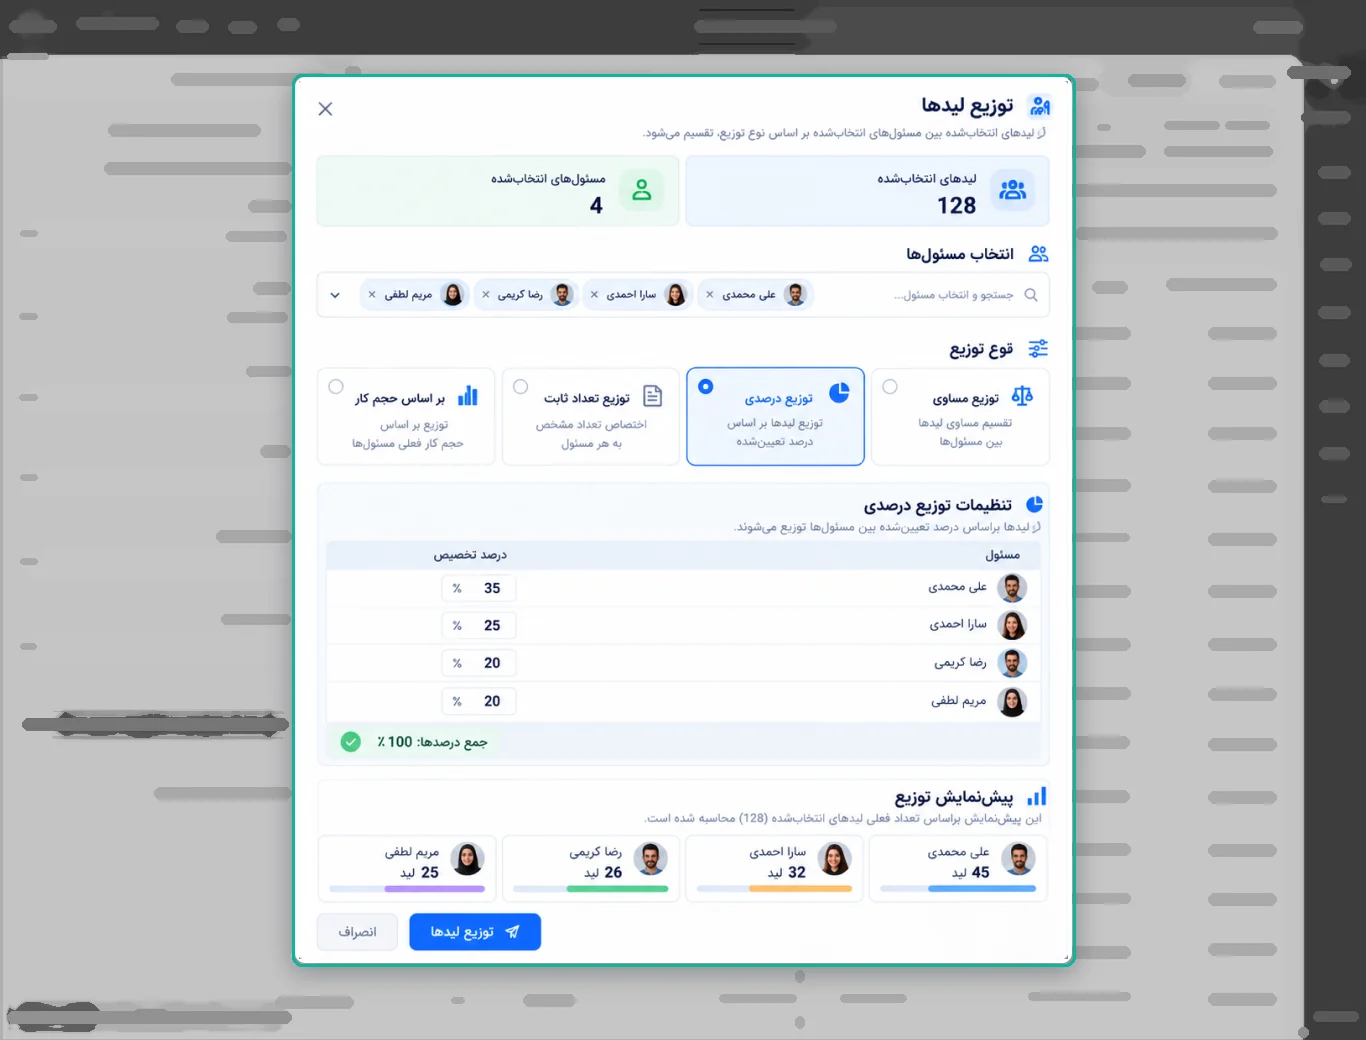
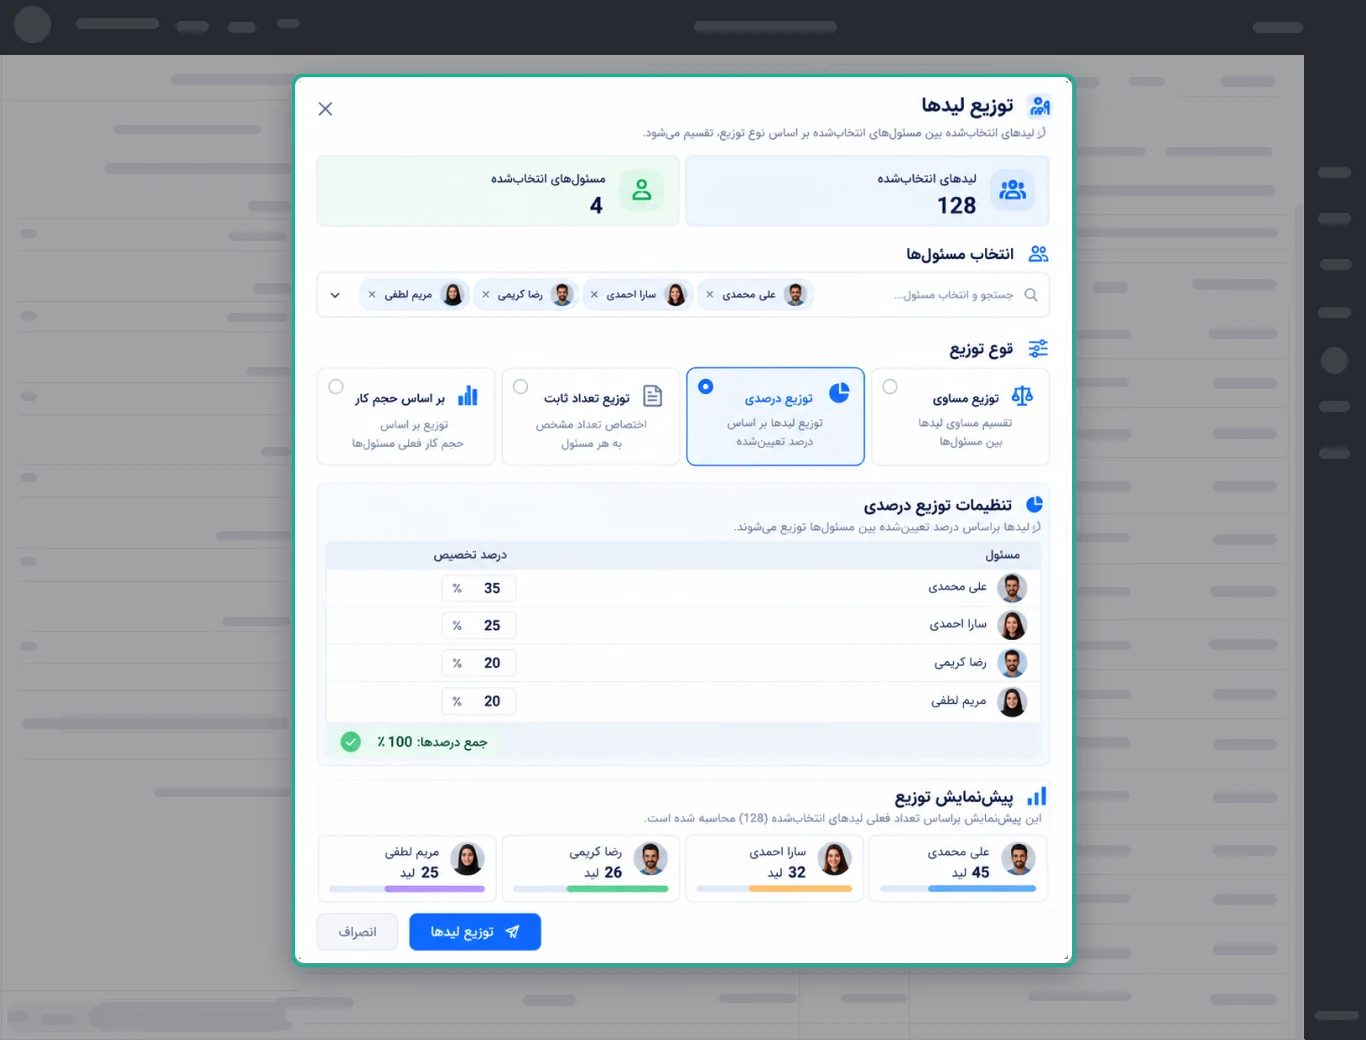
Docs: cleaner skeleton backgrounds in extension screenshots
The skeleton is now drawn from detected geometry instead of a blurred
copy of the screenshot: flat surfaces, crisp 1px card borders, even
placeholder bars, round avatars, and Didar's dark top bar and side nav
as solid strips. Removes the smudges, half-blurred icons and stray
dark bars. Modal screens get a dimmed background (--dim) so the modal
stands out as it does in Didar.

Claude-Session: https://claude.ai/code/session_019W7KBeZ5CK3ix5cB4E1d7m

diff --git a/scripts/extension-skeleton.py b/scripts/extension-skeleton.py
@@ -1,6 +1,11 @@
-"""Turn a Didar screenshot into a skeleton screen, keeping only the extension area as-is.
+"""Turn a Didar screenshot into a clean skeleton screen, keeping only the extension area as-is.
 
-Usage: python3 -I skeleton.py SRC OUT "x0,y0,x1,y1[;x0,y0,x1,y1]" [crop x0,y0,x1,y1]
+Everything outside the kept area is redrawn from geometry detected in the screenshot:
+flat background regions, card outlines, uniform text bars and round avatars. Nothing from
+the original pixels is reused there, so the result has no smudges or half-blurred icons.
+
+Usage: python3 -I scripts/extension-skeleton.py SRC OUT "x0,y0,x1,y1[;...]" [--crop x0,y0,x1,y1] [--dim]
+  --dim  darken everything outside the kept area (for screens where the extension is a modal)
 """
 import sys
 import numpy as np
@@ -9,81 +14,157 @@ from scipy import ndimage as ndi
 
 ACCENT = (19, 179, 155)
 
+# skeleton palette
+PAGE = (247, 248, 250)
+CARD_LINE = (226, 229, 234)
+BAR_LIGHT = (225, 228, 233)     # text bars on light surfaces
+BAR_DARK = (88, 92, 100)        # text bars on dark surfaces (top bar, side nav)
+DARK = (52, 55, 61)
+
+
+def region_color(lum):
+    """Map a detected flat region's luminance to a calm skeleton tone."""
+    if lum < 100:
+        return DARK
+    if lum > 236:
+        return (255, 255, 255)
+    v = int(232 + (lum - 100) / (236 - 100) * 18)  # 232..250
+    return (v - 3, v - 2, v)
+
 
 def skeleton(img: Image.Image) -> Image.Image:
     rgb = np.asarray(img.convert("RGB")).astype(np.float32)
     gray = rgb @ np.array([0.299, 0.587, 0.114], dtype=np.float32)
+    H, W = gray.shape
 
-    # flat background: what the screen looks like without text and icons
     bg = ndi.median_filter(gray, size=25)
     ink0 = np.abs(gray - bg) > 26
 
-    # long thin lines are card borders / dividers, not content
-    hlines = ndi.binary_opening(ink0, structure=np.ones((1, 70)))
-    vlines = ndi.binary_opening(ink0, structure=np.ones((70, 1)))
-    lines = hlines | vlines
-    ink = ink0 & ~ndi.binary_dilation(lines, iterations=1)
-
-    # merge glyphs into words/lines, then into skeleton bars
-    ink = ndi.binary_dilation(ink, structure=np.ones((3, 9)), iterations=1)
-    ink = ndi.binary_closing(ink, structure=np.ones((3, 15)))
-    labels, n = ndi.label(ink)
-    boxes = ndi.find_objects(labels)
-
-    # desaturated, slightly lightened layout as the base
-    base = np.clip(bg * 0.55 + 255 * 0.45, 0, 255)
-    dark = bg < 90  # e.g. Didar's dark top bar and side nav
-    base[dark] = bg[dark] * 0.7 + 40
-    # faint card borders keep the screen's structure readable
-    border = np.clip(base - 22, 0, 255)
-    base = np.where(lines, border, base)
-    out = Image.fromarray(np.stack([base] * 3, -1).astype(np.uint8))
+    out = Image.new("RGB", (W, H), PAGE)
     d = ImageDraw.Draw(out)
 
-    for sl in boxes:
+    # Didar chrome: the dark top bar and the dark side nav on the right, detected as edge strips
+    top_h = 0
+    while top_h < H // 4 and np.median(bg[top_h]) < 100:
+        top_h += 1
+    nav_x = W
+    while nav_x > W * 3 // 4 and np.median(bg[top_h:, nav_x - 1]) < 100:
+        nav_x -= 1
+    chrome_top = top_h if top_h > 20 else 0
+    chrome_right = nav_x if W - nav_x > 20 else W
+
+    # 1) flat regions (top bar, side nav, panels, colored bars, dimmed overlay), largest first
+    q = np.round(bg / 14) * 14
+    regions = []
+    for level in np.unique(q):
+        mask = ndi.binary_opening(q == level, structure=np.ones((5, 5)))
+        lab, n = ndi.label(mask)
+        if not n:
+            continue
+        areas = ndi.sum(mask, lab, range(1, n + 1))
+        for i, sl in enumerate(ndi.find_objects(lab)):
+            if sl is None or areas[i] < 1200:
+                continue
+            y0, y1, x0, x1 = sl[0].start, sl[0].stop, sl[1].start, sl[1].stop
+            fill_ratio = areas[i] / ((y1 - y0) * (x1 - x0))
+            if fill_ratio < 0.55:  # not rectangular enough to be a surface
+                continue
+            lum = float(level)
+            if lum < 100:
+                if y0 < chrome_top + 30 or x1 > chrome_right - 30:
+                    continue  # badges and controls that belong to the chrome
+                lum = 170.0  # dark/saturated elements (buttons, badges) → neutral block; chrome is drawn below
+            regions.append((areas[i], (x0, y0, x1, y1), lum))
+    regions.sort(key=lambda r: -r[0])
+    surface = np.full((H, W), 245.0, dtype=np.float32)
+    for _a, (x0, y0, x1, y1), lum in regions:
+        dark = lum < 100
+        radius = 0 if dark or (x1 - x0) > W * 0.8 else 10
+        d.rounded_rectangle([x0, y0, x1 - 1, y1 - 1], radius=radius, fill=region_color(lum))
+        surface[y0:y1, x0:x1] = lum
+    if chrome_top:
+        d.rectangle([0, 0, W - 1, chrome_top - 1], fill=DARK)
+        surface[:chrome_top] = 40
+    if chrome_right < W:
+        d.rectangle([chrome_right, 0, W - 1, H - 1], fill=DARK)
+        surface[:, chrome_right:] = 40
+
+    # 2) card outlines and dividers: redraw each detected border segment as a crisp 1px line
+    faint = np.abs(gray - bg) > 7  # card borders in Didar are very light
+    hl = ndi.binary_opening(faint, structure=np.ones((1, 70)))
+    vl = ndi.binary_opening(faint, structure=np.ones((70, 1)))
+    lines = hl | vl
+    for mask, horizontal in ((hl, True), (vl, False)):
+        lab, _n = ndi.label(mask)
+        for sl in ndi.find_objects(lab):
+            if sl is None:
+                continue
+            y0, y1, x0, x1 = sl[0].start, sl[0].stop, sl[1].start, sl[1].stop
+            if (y1 - y0) > 4 and (x1 - x0) > 4:
+                continue  # a filled block, not a line
+            if float(np.median(surface[y0:y1, x0:x1])) < 100:
+                continue  # no outlines on the dark top bar / side nav
+            color = CARD_LINE
+            if horizontal:
+                cy = (y0 + y1) // 2
+                d.line([x0, cy, x1 - 1, cy], fill=color, width=1)
+            else:
+                cx = (x0 + x1) // 2
+                d.line([cx, y0, cx, y1 - 1], fill=color, width=1)
+
+    # 3) text and icons → uniform bars, avatars → circles
+    ink = ink0 & ~ndi.binary_dilation(lines, iterations=2)
+    ink = ndi.binary_opening(ink, structure=np.ones((2, 2)))  # drop specks
+    ink = ndi.binary_dilation(ink, structure=np.ones((3, 9)))
+    ink = ndi.binary_closing(ink, structure=np.ones((3, 15)))
+    lab, _n = ndi.label(ink)
+    for sl in ndi.find_objects(lab):
         if sl is None:
             continue
-        y0, y1 = sl[0].start, sl[0].stop
-        x0, x1 = sl[1].start, sl[1].stop
-        h, w = y1 - y0, x1 - x0
-        if w < 6 or h < 5:
+        y0, y1, x0, x1 = sl[0].start, sl[0].stop, sl[1].start, sl[1].stop
+        w, h = x1 - x0, y1 - y0
+        if w < 10 or h < 7 or h > 90 or (h > 46 and w > 160):
             continue
-        if h > 90 or (h > 46 and w > 160):
-            continue  # not a text/icon-sized element
-        local = float(np.median(bg[y0:y1, x0:x1]))
-        fill = (int(local * 0.7 + 68),) * 3 if local < 90 else (int(max(local - 30, 0) * 0.55 + 255 * 0.45 - 12),) * 3
-        if h > 46 and w > 46:
-            # large graphics (avatars, illustrations): soft block
-            d.rounded_rectangle([x0, y0, x1, y1], radius=min(h, w) // 5, fill=fill)
+        if x0 < chrome_right < x1 or y0 < chrome_top < y1:
+            continue  # straddles the edge of the top bar / side nav (badges, shadows)
+        on_dark = float(np.median(surface[y0:y1, x0:x1])) < 100
+        color = BAR_DARK if on_dark else BAR_LIGHT
+        if h >= 26 and 0.7 <= w / h <= 1.4:
+            r = min(w, h) // 2
+            cx, cy = (x0 + x1) // 2, (y0 + y1) // 2
+            d.ellipse([cx - r, cy - r, cx + r, cy + r], fill=color)
+        elif h > 46:
+            d.rounded_rectangle([x0, y0, x1, y1], radius=10, fill=color)
         else:
-            bar_h = max(6, min(h - 2, 12))
+            bar_h = 10 if h >= 14 else 8
             cy = (y0 + y1) // 2
-            d.rounded_rectangle([x0, cy - bar_h // 2, x1, cy + bar_h // 2], radius=bar_h // 2, fill=fill)
+            d.rounded_rectangle([x0, cy - bar_h // 2, x1, cy + bar_h // 2], radius=bar_h // 2, fill=color)
     return out
 
 
 def main():
     src, dst, regions = sys.argv[1], sys.argv[2], sys.argv[3]
+    opts = sys.argv[4:]
     img = Image.open(src).convert("RGB")
-    if len(sys.argv) > 4:
-        img = img.crop(tuple(int(v) for v in sys.argv[4].split(",")))
+    if "--crop" in opts:
+        img = img.crop(tuple(int(v) for v in opts[opts.index("--crop") + 1].split(",")))
     out = skeleton(img)
+    if "--dim" in opts:
+        out = Image.blend(out, Image.new("RGB", out.size, (20, 22, 26)), 0.38)
 
     rects = [tuple(int(v) for v in r.split(",")) for r in regions.split(";")]
-    # soft shadow under the kept area
     shadow = Image.new("L", out.size, 0)
     sd = ImageDraw.Draw(shadow)
     for r in rects:
-        sd.rounded_rectangle([r[0] - 4, r[1] + 2, r[2] + 4, r[3] + 10], radius=14, fill=110)
-    shadow = shadow.filter(ImageFilter.GaussianBlur(12))
-    out = Image.composite(Image.new("RGB", out.size, (60, 66, 75)), out, shadow)
+        sd.rounded_rectangle([r[0] - 4, r[1] + 4, r[2] + 4, r[3] + 12], radius=14, fill=90)
+    shadow = shadow.filter(ImageFilter.GaussianBlur(14))
+    out = Image.composite(Image.new("RGB", out.size, (40, 44, 52)), out, shadow)
 
     for r in rects:
         out.paste(img.crop(r), r[:2])
     d = ImageDraw.Draw(out)
     for r in rects:
         d.rounded_rectangle([r[0] - 3, r[1] - 3, r[2] + 3, r[3] + 3], radius=10, outline=ACCENT, width=3)
-
     out.save(dst, optimize=True)
 
 

diff --git a/README.md b/README.md
@@ -37,7 +37,7 @@ src/                  Worker: سایت، MCP، جستجو، scaffold و validate
 - **راهنما:** شروع (شروع کار، ساخت اپ، محیط تست، MCP) ← مارکتپلیس (درباره، جریان نصب، Developer Hub، ثبت اپ، Client ID و secret) ← اکستنشنها (مرور، Links، JSON modal، JSON panel، Custom UI، Custom modal، Custom panel، App settings) ← احراز هویت (مرور، تکمیل نصب، Runtime Token، Scopeها، state) ← آموزشها و مقالهها.
 - **الگوی صفحهی هر قابلیت:** چیست؟ ← کجای دیدار دیده میشود ← افزودن در Developer Hub (جدول فیلد) ← تبادل داده ← هنوز مستند نشده ← بعد از این بخوان.
 - **مرجع API:** مفاهیم پایه (درباره، درخواستها، پاسخها، کدهای وضعیت) ← نصب و اجرا ← دادهی دیدار.
-- **تصویرها:** اسکرینشاتهای `public/images/extensions` از صفحهی extensions فایل Figma «avangard» ساخته شدهاند؛ فقط اکستنشن واقعی است و بقیهی صفحه skeleton شده. برای ساخت دوباره: `python3 scripts/extension-skeleton.py SRC.png OUT.png "x0,y0,x1,y1"` و سپس تبدیل به WebP.
+- **تصویرها:** اسکرینشاتهای `public/images/extensions` از صفحهی extensions فایل Figma «avangard» ساخته شدهاند؛ فقط اکستنشن واقعی است و بقیهی صفحه skeleton شده. برای ساخت دوباره: `python3 scripts/extension-skeleton.py SRC.png OUT.png "x0,y0,x1,y1" [--crop …] [--dim]` (`--dim` برای صفحههایی که اکستنشن modal است) و سپس تبدیل به WebP.
 - **نمودارها:** `python3 scripts/diagrams.py content/diagrams` هر چهار SVG را از نو میسازد. رنگها از متغیرهای CSS سایت میآیند، پس با تم روشن و تیره عوض میشوند. در نسخهی Markdown (MCP، llms.txt) نمودارها حذف میشوند.
 - slugهای قدیمی با 301 به صفحهی جدید میروند (`MOVED` در `src/worker.js`).
 
